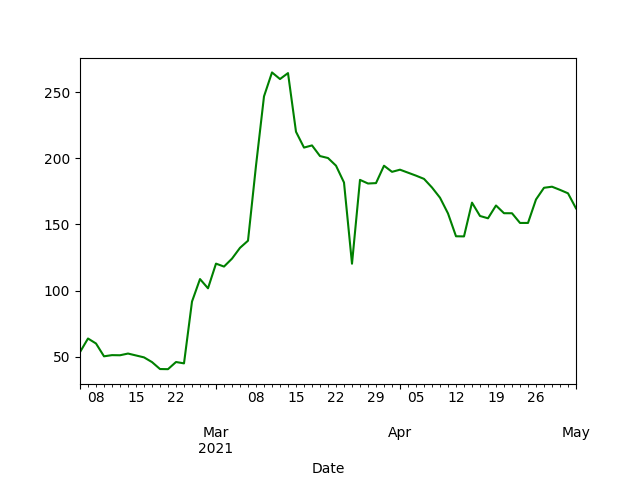
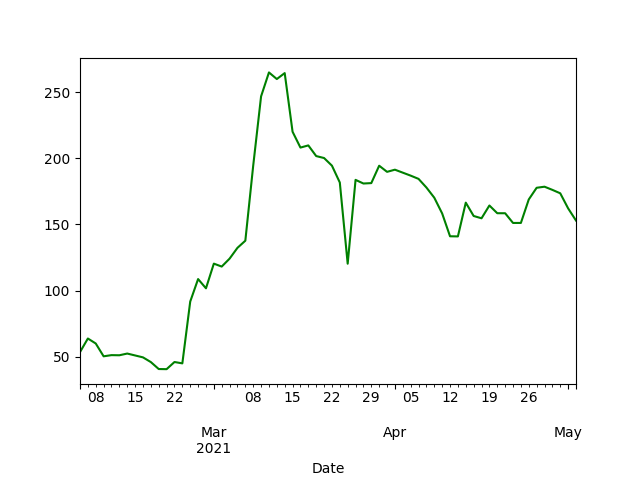
-v4
fixed some stuff with try-excepts, will build test docker image and try it out for a while

diff --git a/NAFABot/NAFA.py b/NAFABot/NAFA.py
@@ -18,11 +18,11 @@ class Ticker:
         self.tickerSymbol = tickerSymbol
         self.tickerChange = ""
         self.tickerLastRefresh = ""
-        self.tickerOpen = ""
-        self.tickerHigh = ""
-        self.tickerLow = ""
-        self.tickerClose = ""
-        self.tickerVolume = ""
+        self.tickerOpen = 0
+        self.tickerHigh = 0
+        self.tickerLow = 0
+        self.tickerClose = 0
+        self.tickerVolume = 0
         self.tickerAPIData = ""
         self.tickerGraphData = ""
         try:
@@ -38,14 +38,14 @@ class Ticker:
             self.tickerInstance = yfinance.download(self.tickerSymbol, period="1d", prepost=True)
 
             self.tickerAPIData = self.tickerInstance.values.tolist()
-            print(self.tickerInstance)
-            self.tickerLastRefresh = str(self.tickerInstance.iloc[1].name.date())
+            self.tickerLastRefresh = str(self.tickerInstance.iloc[0].name.date())
 
             self.tickerOpen = self.tickerAPIData[0][0]
             self.tickerClose = self.tickerAPIData[0][3]
             self.tickerHigh = self.tickerAPIData[0][1]
             self.tickerLow = self.tickerAPIData[0][2]
             self.tickerVolume = self.tickerAPIData[0][5]
+
         except:
             print("NAFA ERROR: Unable to update ticker data")
 
@@ -82,7 +82,7 @@ class Ticker:
             pyplot.cla()
 
             # Plot for 5 days and save as graph5.png
-            self.tickerGraphData = yfinance.download(self.tickerSymbol, period="5d", interval="1m")
+            self.tickerGraphData = yfinance.download(self.tickerSymbol, period="5d", interval="1d")
             self.tickerGraphData.Close.plot(color="green", linestyle="solid")
             self.saveGraph("graph5.png")
             pyplot.cla()
@@ -120,32 +120,38 @@ class Ticker:
 class Comment:
 
     def __init__(self, tickerName, user):
-        self.redditInstance = praw.Reddit(
-            client_id=user.getClientID(),
-            client_secret=user.getClientSecret(),
-            user_agent="not_a_financial_advisor_bot",
-            username=user.getUsername(),
-            password=user.getPassword()
-        )
-
         self.user = user
+        try:
+            self.redditInstance = praw.Reddit(
+                client_id=user.getClientID(),
+                client_secret=user.getClientSecret(),
+                user_agent="not_a_financial_advisor_bot",
+                username=user.getUsername(),
+                password=user.getPassword()
+            )
+            self.imgurInstance = ImgurClient(user.getImgurID(), user.getImgurSecret())
+
+            self.subreddit = self.redditInstance.subreddit(user.getUserSubreddit())
+            self.dailyThread = self.getDailyThread()
+        except:
+            print("NAFA ERROR: Unable to set up Reddit and Imgur instance, check EV credentials")
+            self.imgurInstance = ImgurClient("n/a", "n/a")
+            self.subreddit = ""
+            self.dailyThread = ""
 
         self.signatureList = []
-
-        self.imgurInstance = ImgurClient(user.getImgurID(), user.getImgurSecret())
         self.tickerName = tickerName
-        self.subreddit = self.redditInstance.subreddit(user.getUserSubreddit())
-        self.dailyThread = self.getDailyThread()
-
         self.text = []
         self.formattedText = ""
-
         self.imgurLinks = {}
 
     def getDailyThread(self):
-        for submission in self.subreddit.hot(limit=10):
-            if self.tickerName in submission.title and "Daily" in submission.title:
-                return submission
+        try:
+            for submission in self.subreddit.hot(limit=10):
+                if self.tickerName in submission.title and "Daily" in submission.title:
+                    return submission
+        except:
+            print("NAFA ERROR: Unable to get daily thread from reddit")
 
     def setSignatureList(self, newList):
         self.signatureList = newList
@@ -169,28 +175,30 @@ class Comment:
     def post(self):
 
         try:
-            self.getDailyThread()
+            self.dailyThread = self.getDailyThread()
             self.dailyThread.reply(self.formattedText)
         except:
-            pass
+            print("NAFA ERROR: Unable to post to the daily thread")
 
     def uploadGraphs(self):
 
         self.imgurLinks = {}
-
         album = None
 
-        for file in os.listdir(os.getcwd() + "/graphs/"):
-            config = {
-                'album': album,
-                'name': datetime.now().strftime("%Y-%m-%d %I:%M %p"),
-                'title': datetime.now().strftime("%Y-%m-%d %I:%M %p"),
-                'description': 'Fresh Crayons Out Of The Street'
-            }
+        try:
+            for file in os.listdir(os.getcwd() + "/graphs/"):
+                config = {
+                    'album': album,
+                    'name': datetime.now().strftime("%Y-%m-%d %I:%M %p"),
+                    'title': datetime.now().strftime("%Y-%m-%d %I:%M %p"),
+                    'description': 'Fresh Crayons Out Of The Street'
+                }
 
-            image = self.imgurInstance.upload_from_path(os.getcwd() + "/graphs/" + file, config=config, anon=True)
+                image = self.imgurInstance.upload_from_path(os.getcwd() + "/graphs/" + file, config=config, anon=True)
 
-            self.imgurLinks[file] = image["link"]
+                self.imgurLinks[file] = image["link"]
+        except FileNotFoundError:
+            print("NAFA RW ERROR: Unable to find graph files and upload to Imgur")
 
         self.formattedText += "  \n"
         self.formattedText += 'Crayons: ' + '[1D](' + self.imgurLinks["graph1.png"] + '), ' \

diff --git a/NAFABot/testController.py b/NAFABot/testController.py
@@ -8,12 +8,6 @@ import schedule
 from NAFA import Ticker, Comment
 from NAFAUser import UserCredentials
 
-tickerName = "AAPL"
-userOS = UserCredentials("", "", "", "", "", "")
-mainTicker = Ticker(tickerName, userOS)
-redditComment = Comment(tickerName, userOS)
-userOS.setSubreddit("Superstonk")
-
 
 def setUpUserInfo():
 
@@ -29,11 +23,14 @@ def setUpUserInfo():
         )
 
         userOS.setGithub(os.environ.get("USER_GITHUB"))
-        userOS.setUserSubreddit(os.environ.get("USER_SUBREDDIT"))
-        userOS.setSubreddit(os.environ.get("TARGET_SUBREDDIT"))
+        userOS.setUserSubreddit(os.environ.get("TARGET_SUBREDDIT"))
+        userOS.setSubreddit(os.environ.get("USER_SUBREDDIT"))
 
         mainTicker = Ticker(tickerName, userOS)
         redditComment = Comment(tickerName, userOS)
+
+        print("**\nUSER INFO SET\n**")
+        return [mainTicker, redditComment]
     except:
         print("NAFA U - CONTROLLER ERROR: Unable to get User Info, Setting Up Default: NONE")
 
@@ -43,8 +40,11 @@ def init():
 
     print(datetime.now().strftime("%Y-%m-%d %I:%M:%S %p"))
 
-    setUpUserInfo()
-    print("**\nUSER INFO SET\n**")
+    instances = setUpUserInfo()
+
+    redditComment = instances[1]
+    mainTicker = instances[0]
+
 
     redditComment.setSignatureList([
         "^The ^Cake ^Is ^A ^Pie",
@@ -59,12 +59,16 @@ def init():
         "Alexa play When the Levee Breaks by Led Zeppelin"
     ])
 
-    marketUpdate()
+    marketUpdate(mainTicker, redditComment)
     schedule.every(5).minutes.do(printUpdate)
 
 
-def marketUpdate():
-    schedule.every(1).hour.do(marketJob)
+def marketUpdate(mainTicker, redditComment):
+    # Comment next line if you want to avoid auto posting
+    print("Fetching initial data and posting for the first time\n " +
+          datetime.now(pytz.timezone("America/New_York")).strftime("%m-%d-%Y %I:%M:%S %p"))
+    marketJob(mainTicker, redditComment)
+    schedule.every(1).hour.do(marketJob, mainTicker=mainTicker, redditComment=redditComment)
 
 
 def printUpdate():
@@ -74,7 +78,7 @@ def printUpdate():
           datetime.now().strftime("%m-%d-%Y %I:%M:%S %p"))
 
 
-def marketJob():
+def marketJob(mainTicker, redditComment):
     mainTicker.updateTicker()
 
     redditComment.addLine("Current Date and Time:")
@@ -99,13 +103,7 @@ def marketJob():
 
 
 if __name__ == "__main__":
-
     init()
-
-    # Comment next line if you want to avoid auto posting
-    print("Fetching initial data and posting for the first time\n " +
-          datetime.now(pytz.timezone("America/New_York")).strftime("%m-%d-%Y %I:%M:%S %p"))
-    marketJob()
 
     while True:
         schedule.run_pending()

diff --git a/NAFABot/NAFAUser.py b/NAFABot/NAFAUser.py
@@ -40,7 +40,7 @@ class UserCredentials:
         return self.userSubreddit
 
     def getSubreddit(self):
-        return  self.subreddit
+        return self.subreddit
 
     def getUsername(self):
         return self.userName
